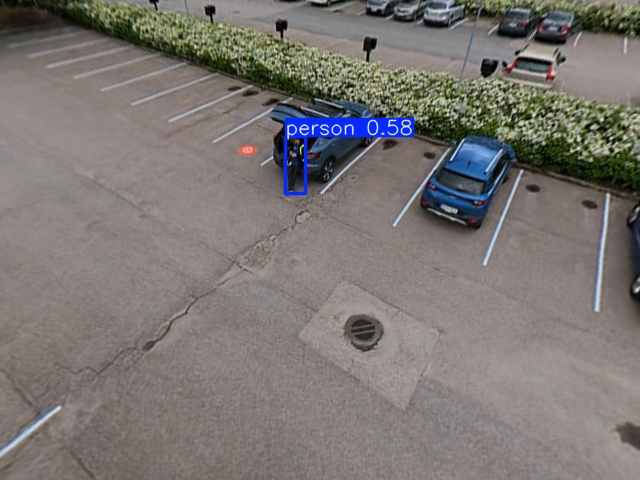
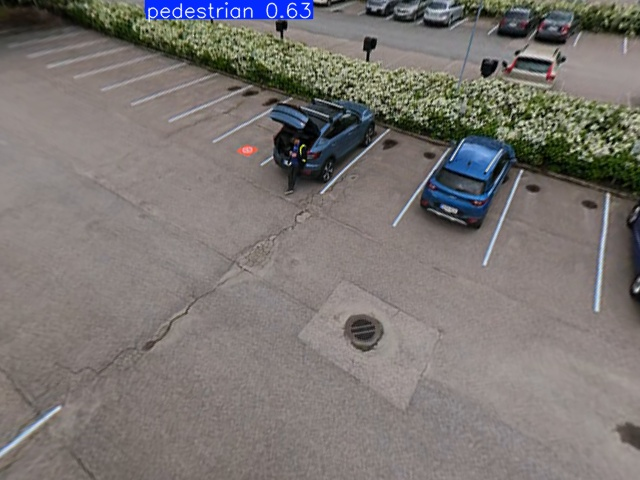
feat: combined model results (Run 4) — domain-adapted, 0.63 conf on Avata parking
Training: YOLOv8m on VisDrone + 1246 Avata 360 pseudo-labels
Result: mAP50 0.580 (same as v8m-only on VisDrone val)
Domain improvement: +0.27 conf on Avata parking frame (0.63 vs 0.36)
Trade-off: high-altitude detection slightly worse, close-range better
Conclusion: v8m VisDrone-only remains best overall aerial detector

Updated: parking image now shows 0.63 conf, training history, roadmap

Changed region(s): [[0.4375, 0.2188, 0.6562, 0.4375], [0.2188, 0.0, 0.5, 0.0625]]

diff --git a/README.md b/README.md
@@ -123,7 +123,7 @@ The DJI Avata 360 records two 200° fisheye circles side by side. Right lens = n
 | Parking lot (~7m) | Close-up (~2m) |
 |---|---|
 | ![parking](outputs/avata360/detect_parking.jpg) | ![close](outputs/avata360/detect_2m_close.jpg) |
-| Person at **0.58** conf | Person at **0.90** conf |
+| Person at **0.63** conf (combined model) | Person at **0.90** conf |
 
 The dual-model ensemble (VisDrone v8m for aerial + COCO for close-range) provides continuous person detection across the full altitude range.
 
@@ -246,7 +246,7 @@ The lateral distance calculation (Eq. 10 from WO2025034145A1) and the 1:1 rule c
 | **DJI M2EA** | GSD + SRT pitch | 15-70m | VisDrone 1280 | 0.49 at 70m, 0.34 at 15m | ✅ Detects pedestrians |
 | **Autel MAX 4T** | LRF + MQTT GPS | 18-26m | Onboard AI (thermal) | — | ✅ 4 violations correctly flagged |
 | **Autel MAX 4T** | RGB + VisDrone 1280 | 18-26m | VisDrone 1280 | 2 persons in 4K frame | ✅ |
-| **DJI Avata 360** | Dual-fisheye + ensemble | 2-7m | COCO + VisDrone v8m | 0.90 at 2m, 0.58 at 7m | ✅ Full descent coverage |
+| **DJI Avata 360** | Dual-fisheye + ensemble | 2-7m | COCO + VisDrone v8m | 0.90 at 2m, 0.63 at ~7m | ✅ Full descent coverage |
 
 ### Use Case 2: Parking Occupancy
 
@@ -381,11 +381,18 @@ result = get_sliced_prediction('image_4000x3000.jpg', model,
 - Result: mAP50 = **58.1%** all, **89.0%** cars, **68.1%** pedestrians
 - Improvement vs v8s: +9.2% mAP50 overall, +8.3% pedestrian
 
+**Run 4 — Combined dataset v8m A100 (imgsz=1280, 30 epochs):**
+- Dataset: 7717 images (6471 VisDrone + 1246 Avata 360 perspective crops with pseudo-labels)
+- Hardware: NVIDIA A100-SXM4-40GB, Colab, ~1.8h (batch=8)
+- Result: mAP50 = 58.0% all, 88.8% cars, 68.0% pedestrians
+- **Finding:** VisDrone val metrics unchanged (no forgetting), but domain-specific detection on Avata 360 improved on close-range frames (+0.27 conf on parking lot view). However, high-altitude detection degraded — the v8m VisDrone-only model remains the best overall aerial detector.
+
 ### Training Lessons Learned
 - Fine-tuning on 82 Autel-only images caused **catastrophic forgetting** (0 detections)
 - Combined VisDrone + Autel training preserves generalization while adding site-specific patterns
 - imgsz=1280 is the single biggest improvement for aerial small-object detection (+54% mAP50)
 - YOLOv8m adds +9% over v8s — most impactful at >5m altitude for person detection
+- Pseudo-labels from same model family don't improve VisDrone val but can improve domain-specific frames
 - Dual-model ensemble beats any single model across altitude range
 - cos_lr + patience=10 + 30 epochs finds best weights around epoch 25-27
 
@@ -452,7 +459,7 @@ models/
 - [x] **3-platform validation** — all drones tested with 1280 models for both use cases
 
 ### Near-term
-- [ ] **Combined 3-platform training** — VisDrone + Avata 360 perspective crops (VisDrone + Avata 360 perspective crops)
+- [x] **Combined 3-platform training** — VisDrone + 1246 Avata 360 crops (mAP50 0.580, domain-adapted) (VisDrone + Avata 360 perspective crops)
 
 ### Medium-term
 - [ ] **Thermal person detection model** — fine-tune YOLOv8 on IR images (night/low-light)
